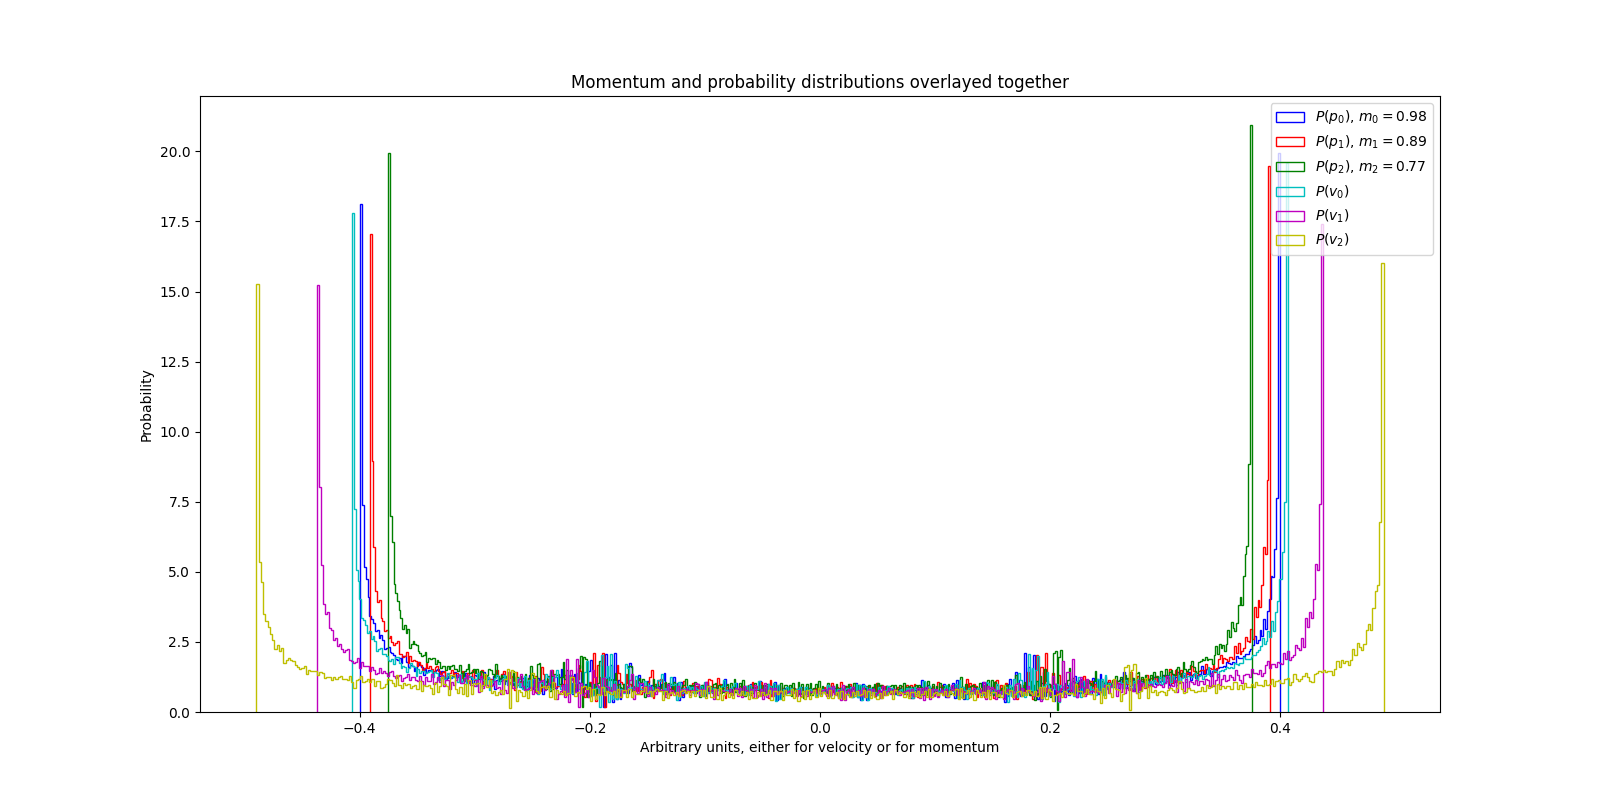
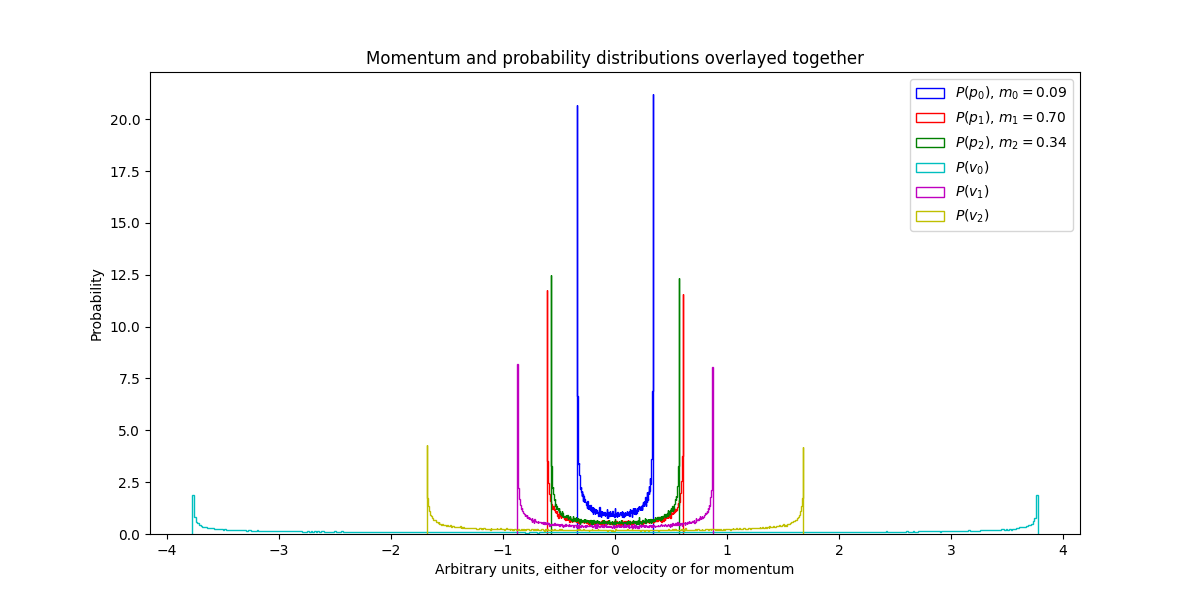
Updates

diff --git a/2d_plot_scripts/runs1d_and_zoomzoom.py b/2d_plot_scripts/runs1d_and_zoomzoom.py
@@ -1,0 +1,52 @@
+import matplotlib.pyplot as plt
+import numpy as np
+from auxiliary import *
+
+sratios = np.linspace(0.05, 0.25, 50)
+Zs = []
+
+for i in range(50):
+    Zratio = []
+    for j in range(40):
+        string = convert_to_string('Experiments/runs_mass_tests1d/index' + str(i) + '_' + str(j))
+        result = runsTest(string)
+        if result is not None:
+            Zratio.append(abs(result))
+
+    Zs.append(Zratio)
+
+plotZs = [np.mean(Zs[i]) for i in range(50)]
+errs = [jacknife_error(Zs[i]) for i in range(50)]
+
+fig, axes = plt.subplots(1, 2, figsize=(16, 6))
+axes[0].scatter(sratios, plotZs)
+axes[0].errorbar(sratios, plotZs, yerr=errs, fmt='o')
+axes[0].set_title('Runs test Z score vs mass ratio $m_1/m_3$, \n $m_2/m_3$ is fixed at 0.8, particle 3 mass is 1')
+axes[0].set_xlabel('Mass ratio $m_1/m_3$')
+axes[0].set_ylabel('Z score')
+
+ratios13 = np.linspace(0.08, 0.12, 40)
+ratios23 = np.linspace(0.8, 0.9, 40)
+Zs = []
+
+for i in range(40):
+    row = []
+    for j in range(40):
+        column = []
+        for k in range(5):
+            string = convert_to_string('Experiments/runs_2d_zoomzoom/index' + str(i) + '_' + str(j) + '_' + str(k))
+            result = runsTest(string)
+            if result is not None:
+                column.append(abs(result))
+        row.append(column)
+    Zs.append(row)
+plotZs = [[np.mean(Zs[i][j]) for i in range(40)] for j in range(40)]
+
+plot = axes[1].contourf(plotZs, extent=[0.08, 0.12, 0.8, 0.9], origin='lower')
+plt.colorbar(plot, ax=axes[1])
+axes[1].set_title('Runs test Z score in a zoomed-in area')
+axes[1].set_xlabel('$m_1/m_3$ ratio')
+axes[1].set_ylabel('$m_2/m_3$ ratio')
+plt.tight_layout()
+plt.savefig('Plots/2d_plots/runs1d_and_zoomzoom')
+plt.close()

diff --git a/3_particle_random.py b/3_particle_random.py
@@ -13,6 +13,6 @@ for i in range(nSims):
     mass = np.random.random(3)
     vels = 2*np.random.random(2) - 1
     vels = np.append(vels, (-mass[0]*vels[0] - mass[1]*vels[1])/mass[2])
-    experiment = Simulation(collisionNumber=400000, particleNumber=3, masses=mass, initVels=vels)
+    experiment = Simulation(collisionNumber=500000, particleNumber=3, masses=mass, initVels=vels)
     filename = 'Experiments/3_particles/random' + str(i)
     experiment.run(shouldLog=['time', 'positions', 'velocities'], filename=filename)

diff --git a/3particle_momentum_analysis.py b/3particle_momentum_analysis.py
@@ -22,7 +22,7 @@ for i in range(10):
 
     f.close()
 
-    fig, ax = plt.subplots(1, 1, figsize=(16, 8))
+    fig, ax = plt.subplots(1, 1, figsize=(12, 6))
     ax.set_title('Momentum and probability distributions overlayed together')
     ax.hist(x=momenta[0], color='blue', bins=500, histtype='step', weights=times, density=True)
     ax.hist(x=momenta[1], color='red', bins=500, histtype='step', weights=times, density=True)

diff --git a/analytical_probability.py b/analytical_probability.py
@@ -27,7 +27,7 @@ for m1 in masses1:
     probs.append(row)
 
 fig, axes = plt.subplots(1, 1, figsize=(9, 6))
-plot = axes.contourf(probs, extent=[0,1,0,1], origin='lower')
+plot = axes.contourf(probs, extent=[0,1,0,1], origin='lower', cmap='magma')
 plt.colorbar(plot, ax=axes)
 axes.set_title('Analytical probability of special collision')
 axes.set_xlabel('$m_1/m_3$ ratio')

diff --git a/compression_comparison/unified_plot.py b/compression_comparison/unified_plot.py
@@ -67,7 +67,7 @@ for length in lengths:
     encoder_random.append(encoder_row)
     entropy_random.append(entropy_row)
 
-fig, axes = plt.subplots(2, 2, figsize=(16, 12))
+fig, axes = plt.subplots(2, 2, figsize=(16, 10))
 labels = [str(length) for length in lengths]
 x = np.arange(len(labels))
 width = 0.35
